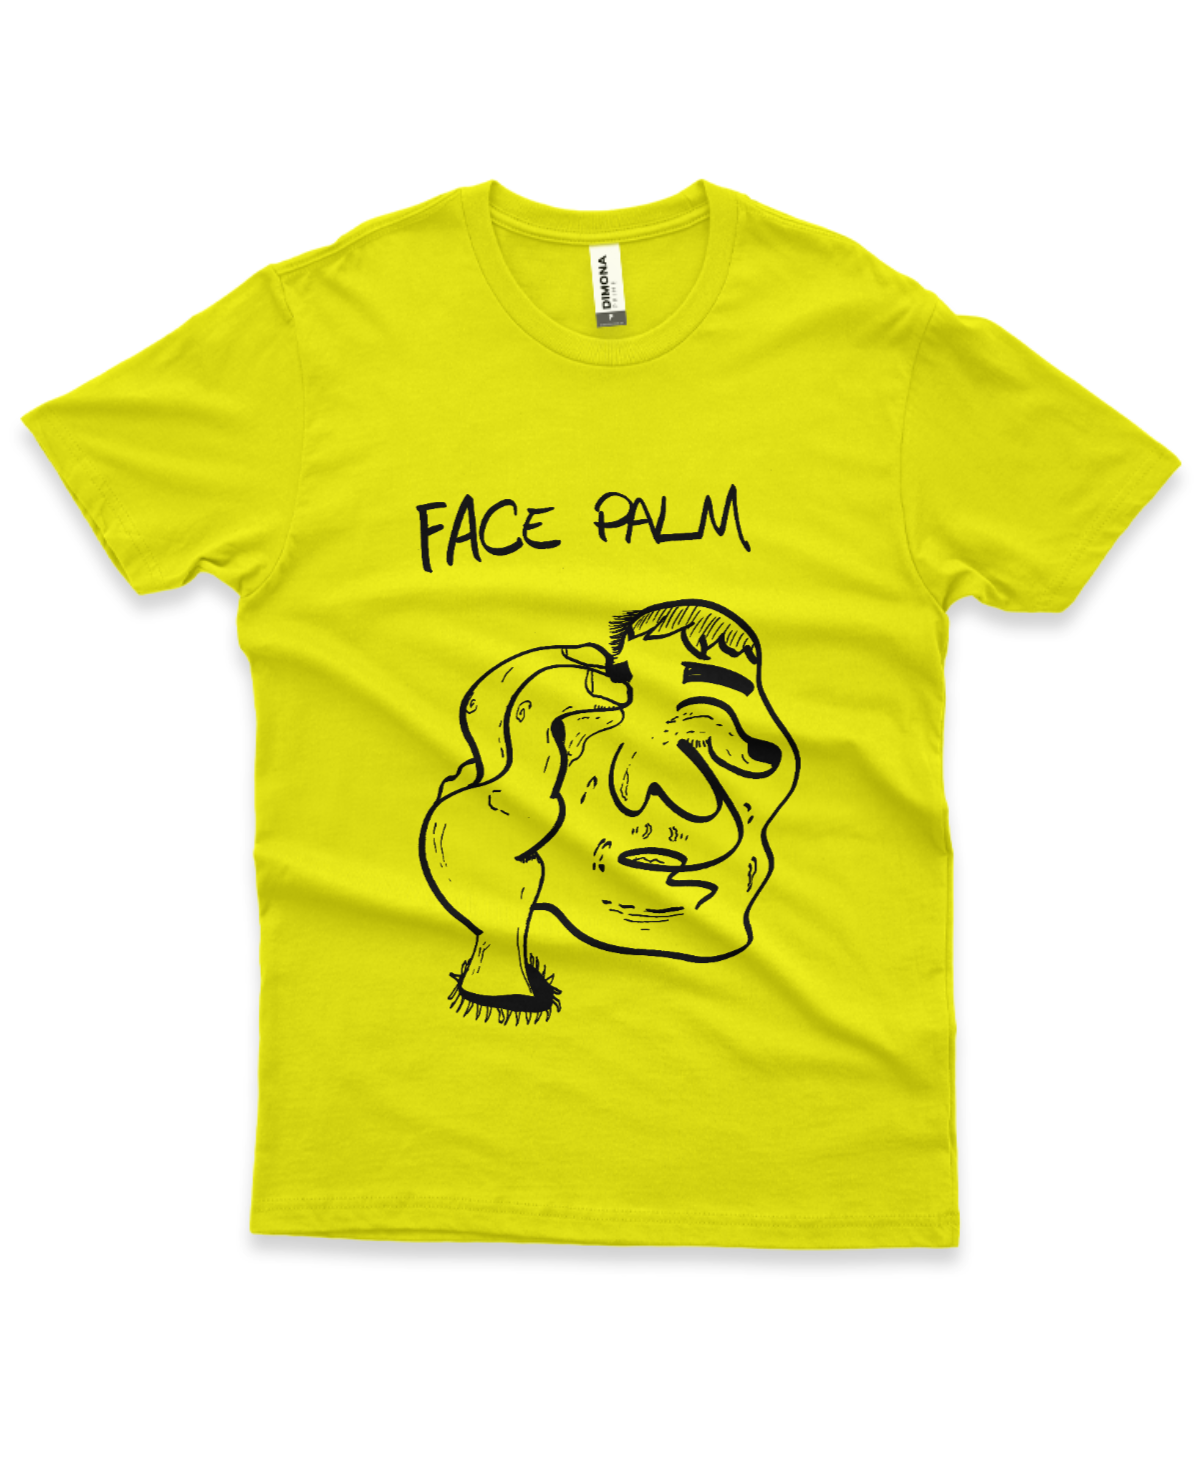
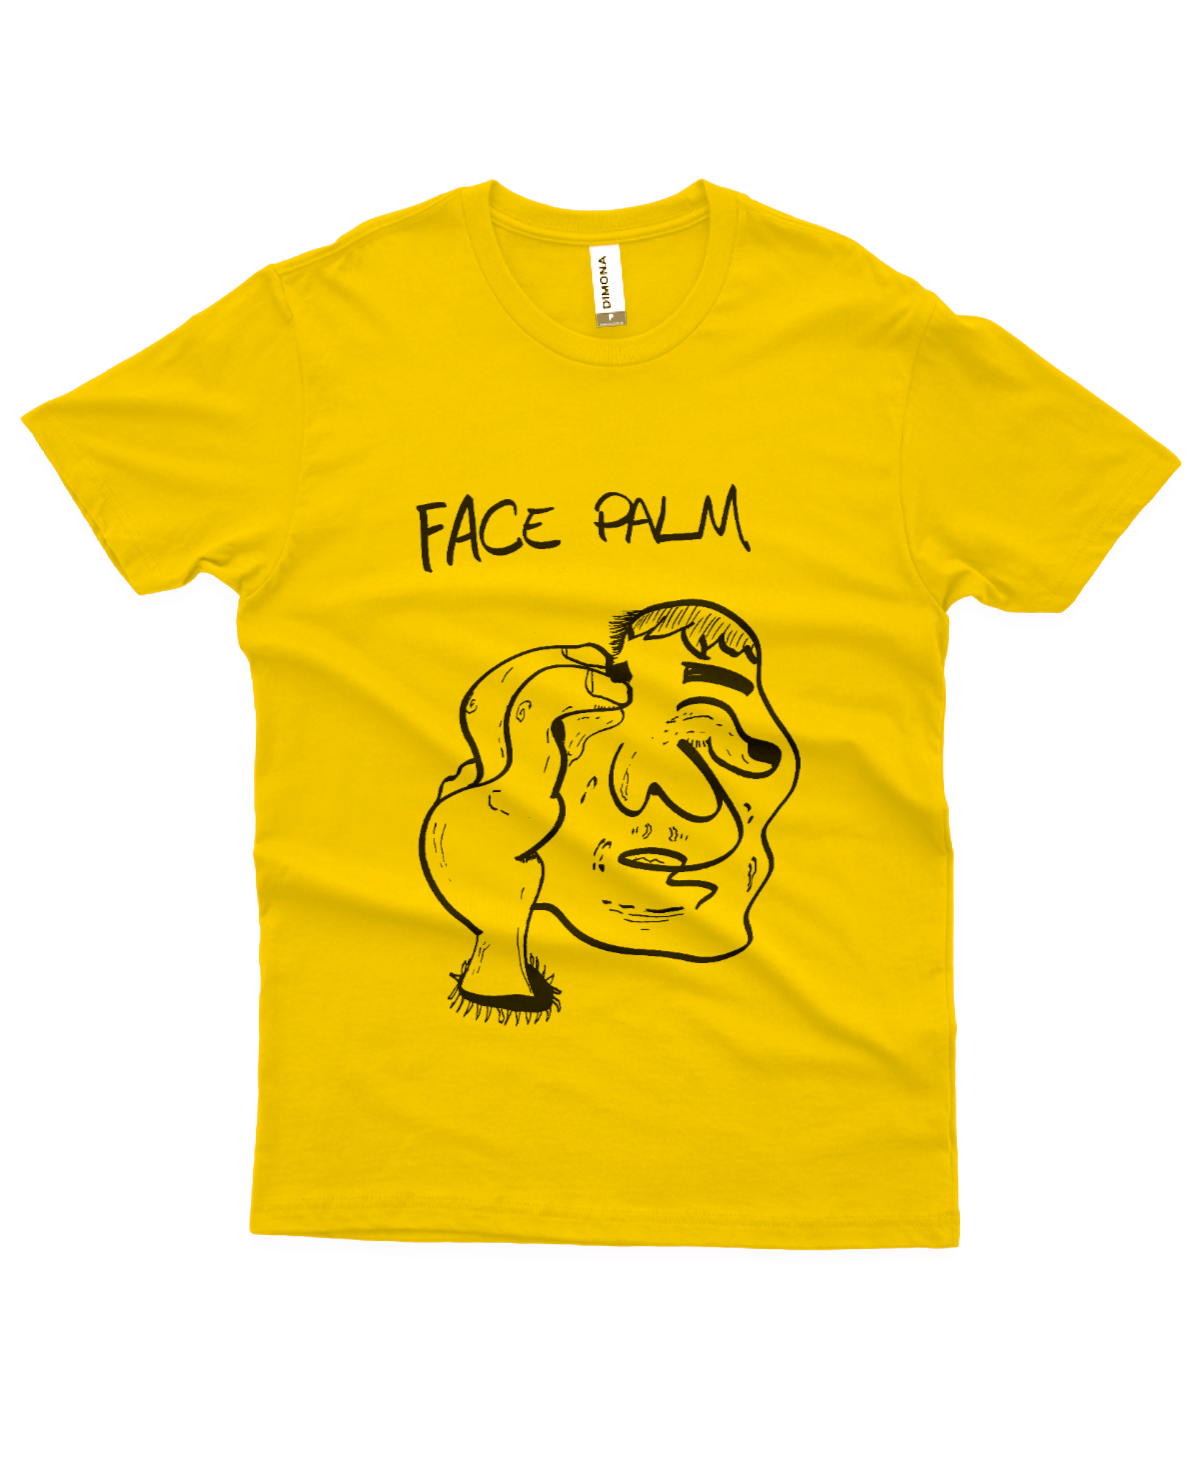
Catalog changes

Changed region(s): [[0.0, 0.1231, 0.9867, 0.8618], [0.8942, 0.3078, 0.925, 0.3386]]

diff --git a/app/(PAGES)/product/[productId]/page.js b/app/(PAGES)/product/[productId]/page.js
@@ -40,7 +40,7 @@ const Camiseta = ({ params }) => {
         { id: 4, nome: "Verde", hex: "#284434" },
         { id: 5, nome: "LaranjaEscuro", hex: "#ff5c04" },
         { id: 6, nome: "LaranjaClaro", hex: "#ffa41c" },
-        { id: 7, nome: "Amarelo", hex: "#fffc04" },
+        { id: 7, nome: "Amarelo", hex: "#e8c709" },
         { id: 8, nome: "Vermelho", hex: "#a00404" },
     ];
 
@@ -65,6 +65,7 @@ const Camiseta = ({ params }) => {
                         <div className={styles.productDetails}>
                             <span className={styles.h2} title={product.displayName}>{product.displayName.length > 10 ? product.displayName.substring(0, 10) + '...' : product.displayName} - {product.preco}</span>
                             </div>
+
                             <div className={styles.productImage}>
                             <Link href={product.img} target="_blank">
                                 <Image
@@ -76,6 +77,9 @@ const Camiseta = ({ params }) => {
                                 />
                             </Link>
                             </div>
+
+                            <p className={styles.moreInfo}>*Mais informações sobre o produto e tamanho no forms de pré-venda</p>
+
                             
 
                         </div>
@@ -110,7 +114,7 @@ const Camiseta = ({ params }) => {
                                 Gostou dessa estampa? 
                                 Para comprar ela ou qualquer outro produto do site na pré-venda clique no botão abaixo! (Duração até Maio de 2024)
                                 </h3>
-                            <Link href={'https://docs.google.com/forms/d/1NaE5Rs8la7vr3FaoA_y4xlB0WGCPRwCVznPCmTmleGM'} target="_blank"><button className={styles.button}>Quero!</button></Link>
+                            <Link href={'https://forms.gle/1uY8DajdAqGg96tJ8'} target="_blank"><button className={styles.button}>Quero!</button></Link>
                         </div>
                 </main>
             )}

diff --git a/app/utils/Produtos.js b/app/utils/Produtos.js
@@ -17,13 +17,13 @@ const Produtos = [
         displayName: "Face Palm",
         preco: "R$65,00",
         img: facepalmMain,
-        cores: ["#ffffff", "#000000", "#fffc04", "#ffa41c", "#a00404"]
+        cores: ["#ffffff", "#000000", "#e8c709"]
     },
     {
         id: 3,
         nome: "Ecobaug",
         displayName: "EcoBAUG",
-        preco: "R$30,00",
+        preco: "R$35,00",
         img: ecobaugMain,
         cores: ["#ffffff"]
     }

diff --git a/app/COMPONENTS/Showcase.js b/app/COMPONENTS/Showcase.js
@@ -26,7 +26,7 @@ const Showcase = () => {
         { id: 4, nome: "Verde", hex: "#284434" },
         { id: 5, nome: "LaranjaEscuro", hex: "#ff5c04" },
         { id: 6, nome: "LaranjaClaro", hex: "#ffa41c" },
-        { id: 7, nome: "Amarelo", hex: "#fffc04" },
+        { id: 7, nome: "Amarelo", hex: "#e8c709" },
         { id: 8, nome: "Vermelho", hex: "#a00404" },
     ];
 

diff --git a/app/STYLES/product.module.css b/app/STYLES/product.module.css
@@ -178,6 +178,14 @@
     height: 0;
 }
 
+.moreInfo{
+    display: flex;
+    justify-content: center;
+    align-items: center;
+    text-align: center;
+    font-size: .7rem;
+}
+
 /* media query */
 
 @media (max-width: 1230px) {
